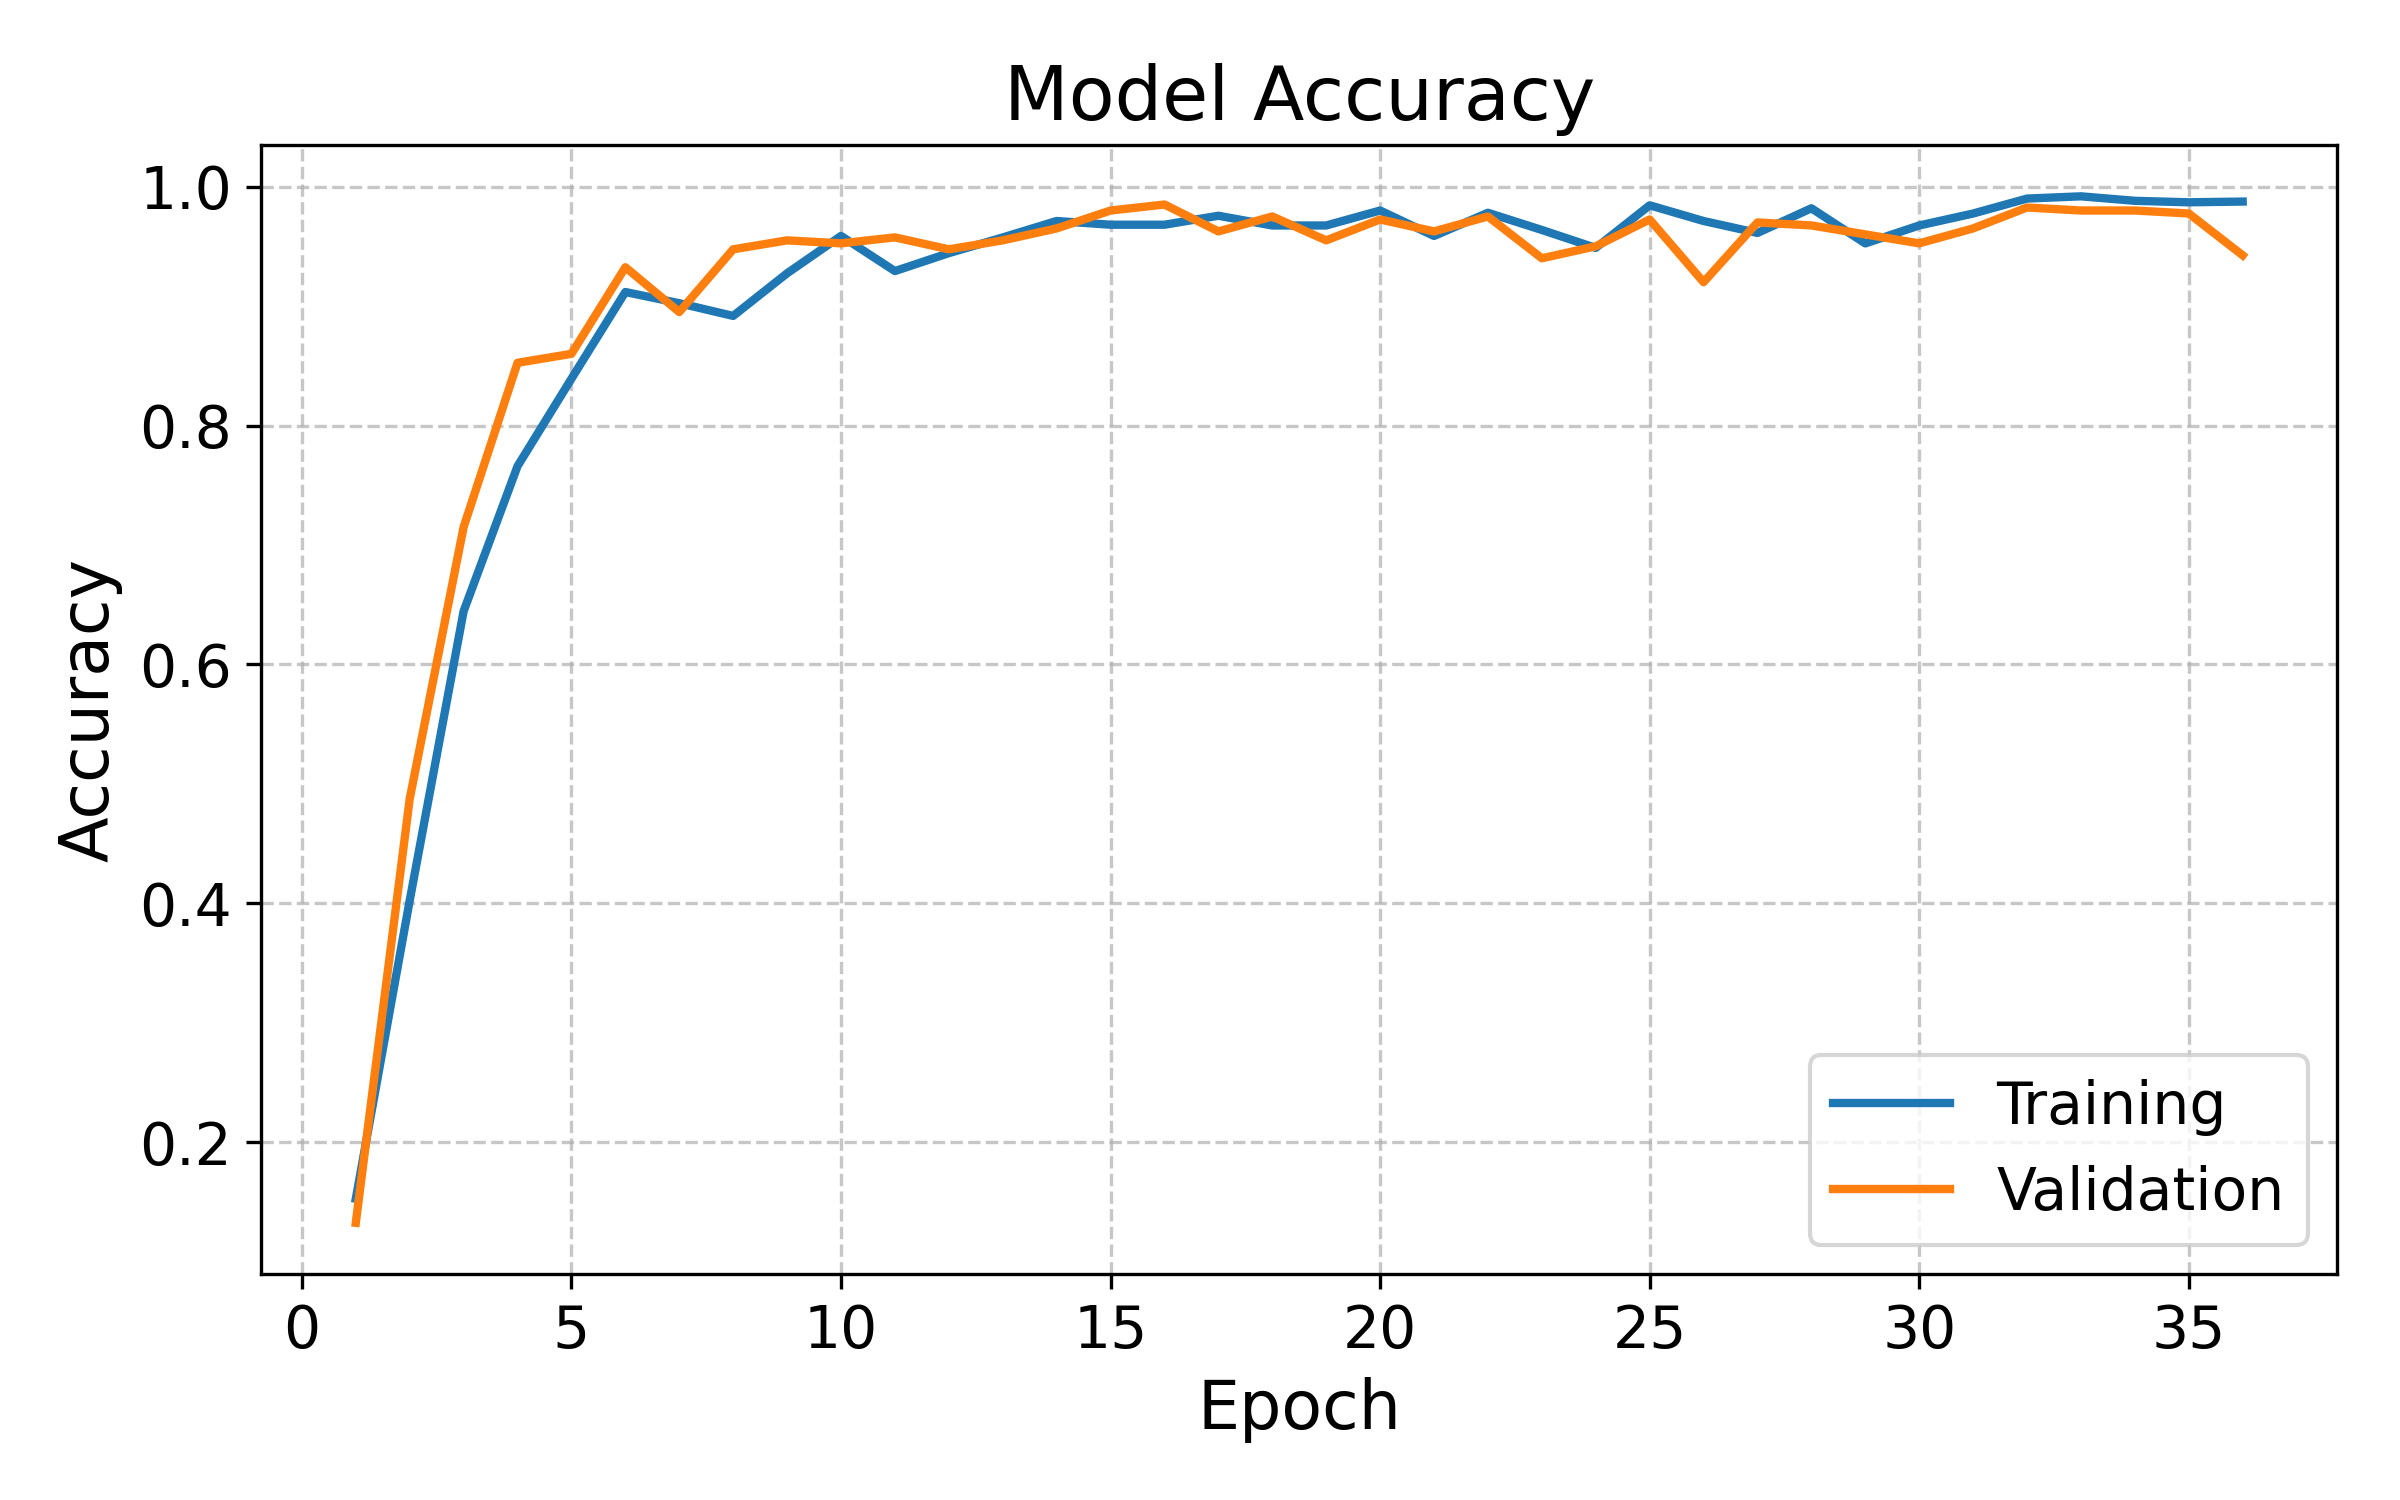
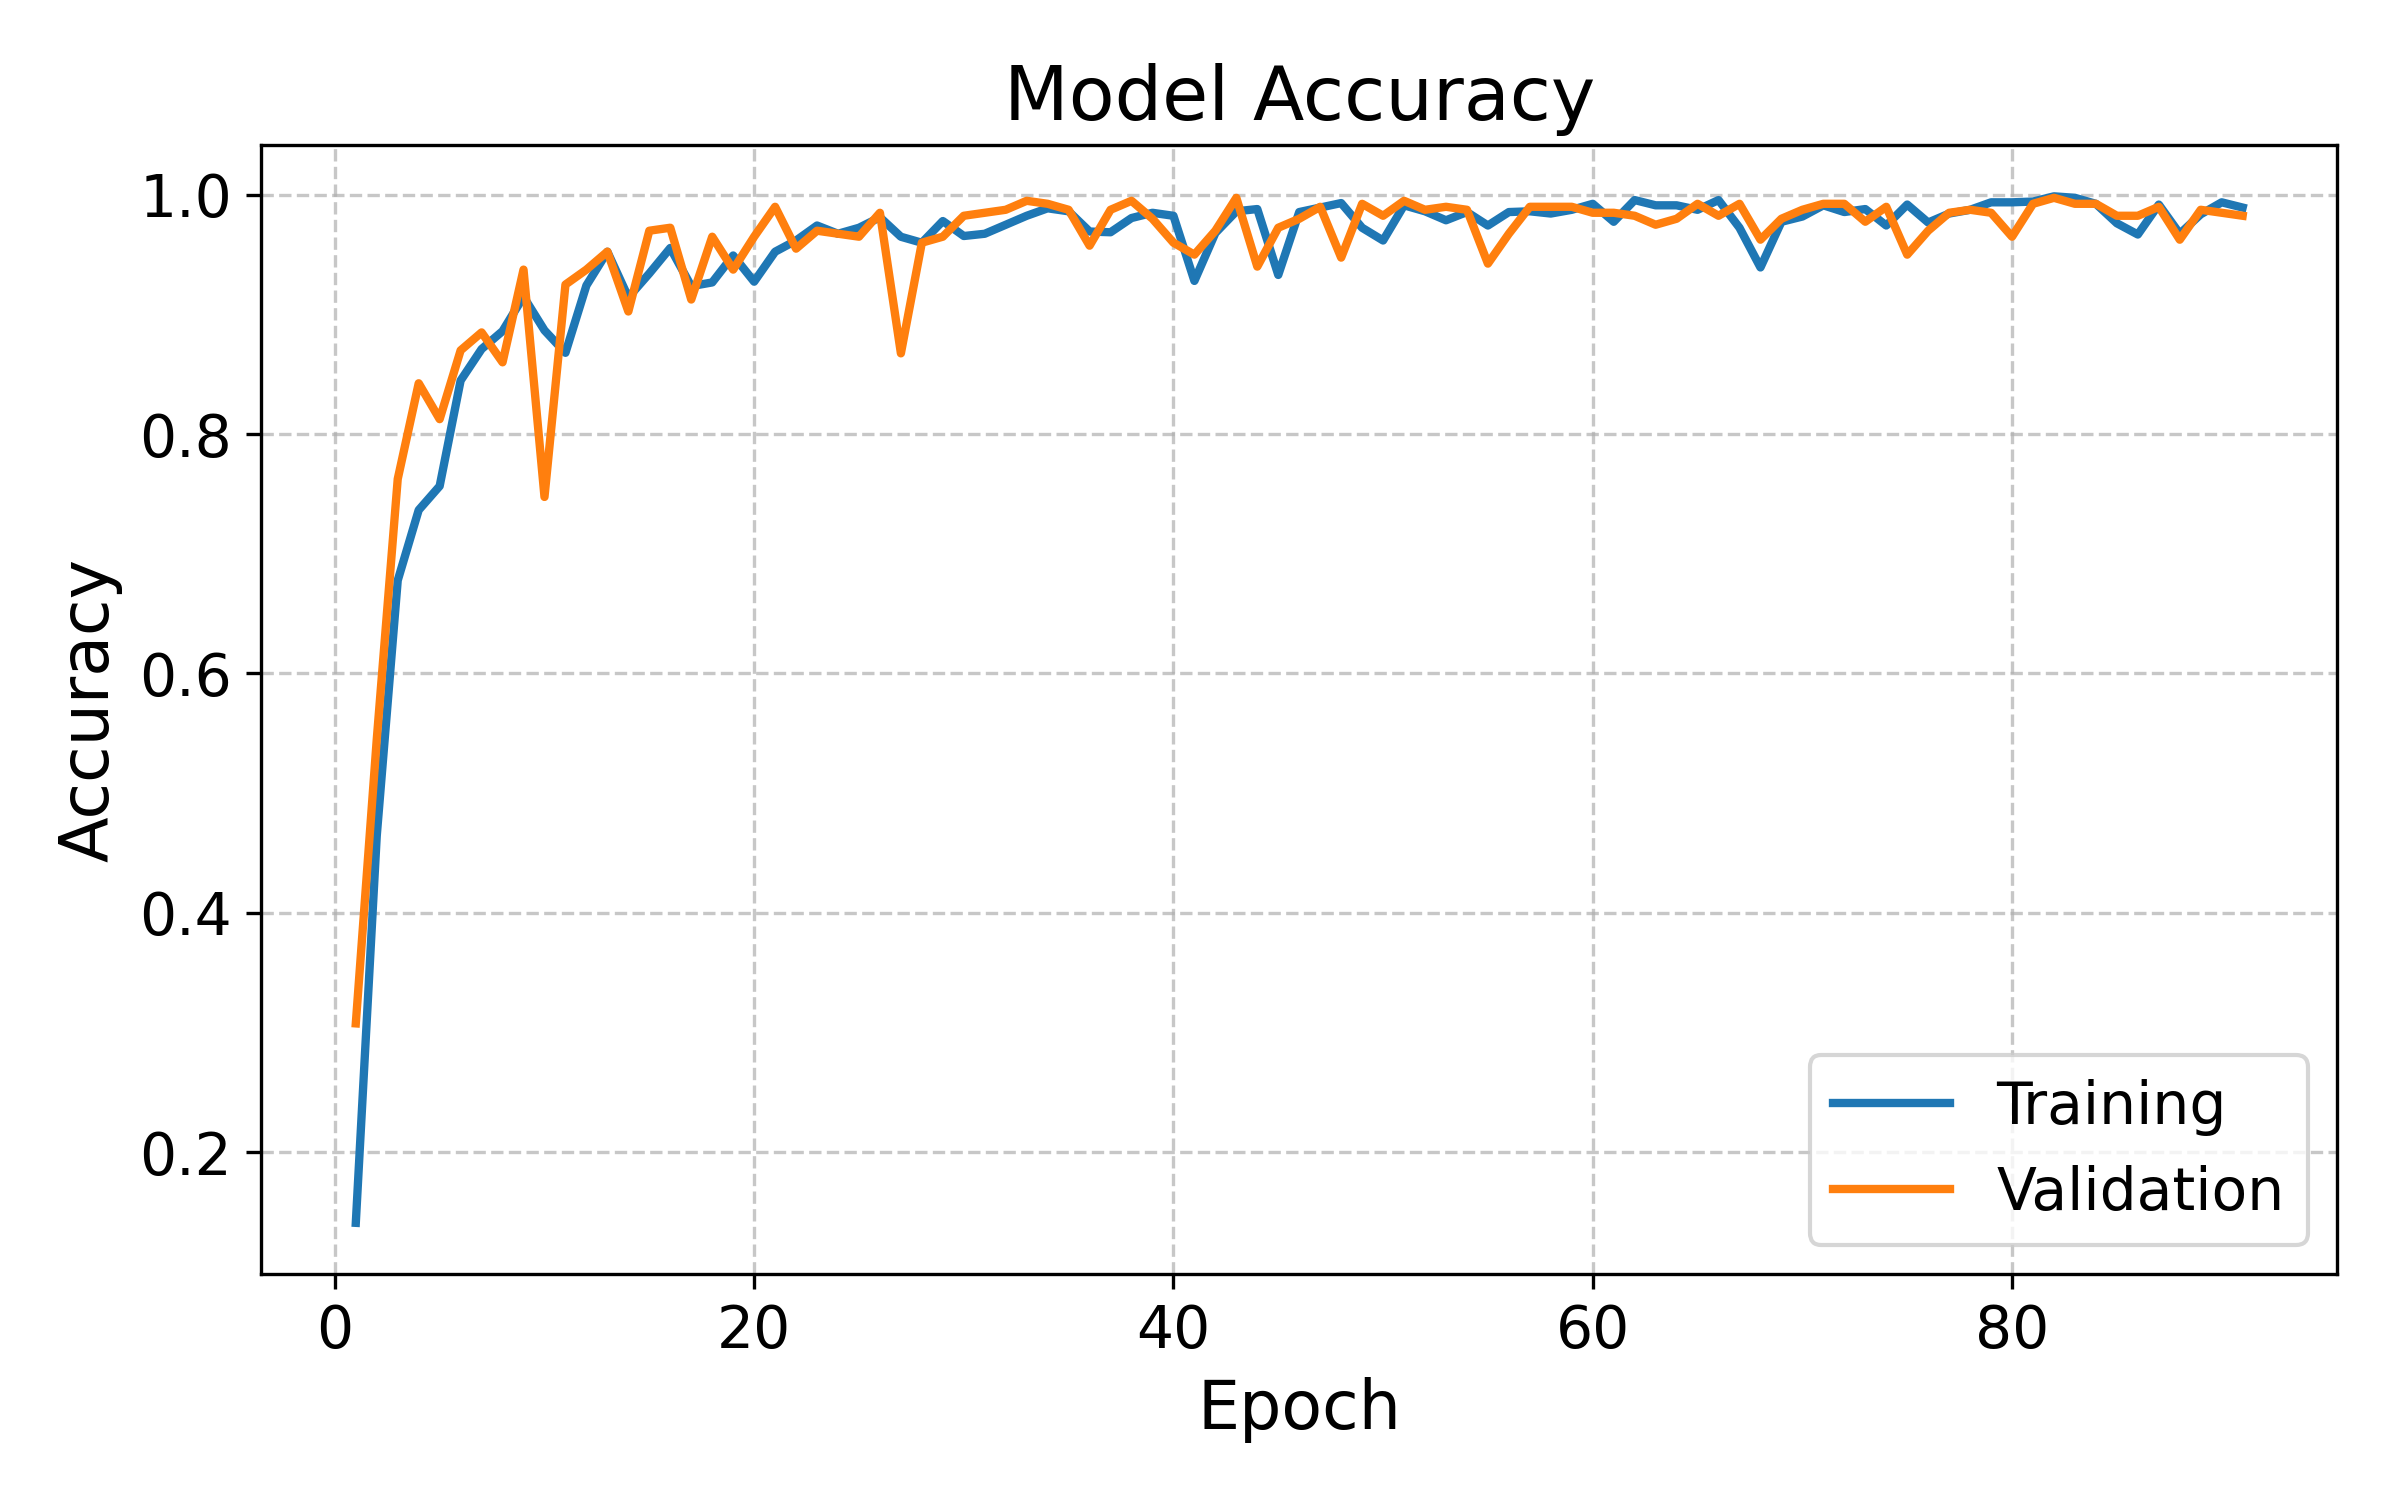
docs: update training graphs and narrative to reflect optimized 65-epoch run

diff --git a/4-result.tex b/4-result.tex
@@ -18,11 +18,9 @@ This section presents the experimental results evaluating the proposed system's 
 \end{figure}
 
 \subsection{Model Training Performance}
-The LSTM model was trained on a dataset of 10 dynamic gestures collected from 8 subjects. Fig. \ref{fig:training_accuracy} illustrates the training and validation accuracy over 35 epochs, while Fig. \ref{fig:training_loss} shows the corresponding loss curves.
-\begin{enumerate}
-    \item Convergence: As seen in Fig. \ref{fig:training_accuracy}, the model achieved convergence rapidly, reaching $>$90\% accuracy within the first 10 epochs.
-    \item Final Accuracy: The baseline Keras model achieved a validation accuracy over 98\%, demonstrating excellent generalization without significant overfitting, as indicated by the minimal gap between training and validation loss in Fig. \ref{fig:training_loss}.
-\end{enumerate}
+The LSTM model was trained on a dataset of 10 dynamic gestures collected from 8 subjects. Fig. \ref{fig:training_accuracy} illustrates the training and validation accuracy, while Fig. \ref{fig:training_loss} shows the corresponding loss curves over the training period, which concluded at epoch 65 due to the triggering of the early stopping mechanism. As observed in Fig. \ref{fig:training_accuracy}, the model achieved rapid convergence, surpassing 90\% accuracy within the first 10 epochs and stabilizing with a validation accuracy exceeding 98\%.
+
+The close proximity between the training and validation curves in Fig. \ref{fig:training_loss} indicates robust generalization with minimal overfitting. Transient fluctuations observed in the validation metrics, most notably around epoch 15, are characteristic artifacts of the aggressive 50\% Dropout regularization. These fluctuations confirm that the network maintains stochastic resilience, preventing it from memorizing the training data sequence and ensuring reliable performance on unseen validation samples.
 
 
 \subsection{Edge Optimization (Quantization)}
